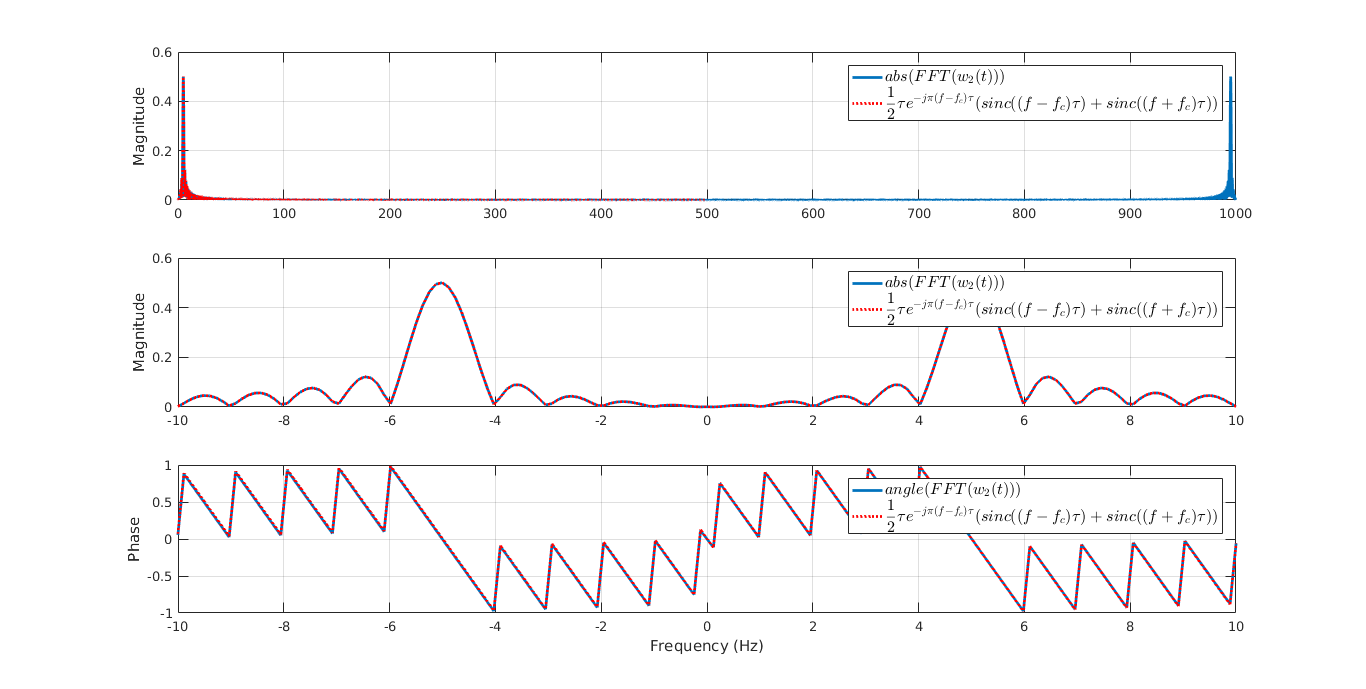
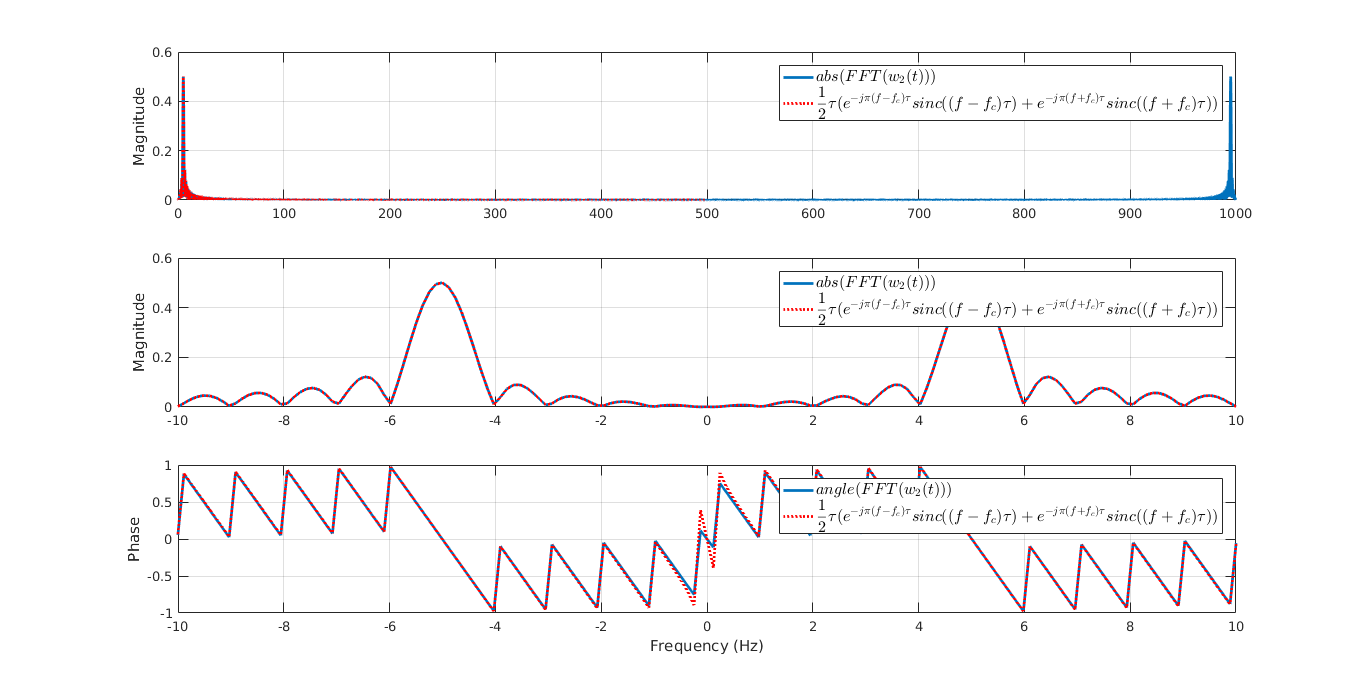
update plots AGAIN because I can't math

diff --git a/labs/lab08/scripts/settings.m b/labs/lab08/scripts/settings.m
@@ -30,5 +30,6 @@ theory_x2 = @(f) (exp(-1j*pi*tau*(f-f_c))*tau.*sinc((f-f_c)*tau));
 theory_x3 = @(f) (exp(1j*pi*tau*(f-f_c))*tau.*sinc((f-f_c)*tau));
 
 theory_w1 = @(f) (1/2*tau.*(sinc((f-f_c)*tau)+sinc((f+f_c)*tau)));
-theory_w2 = @(f) (1/2*tau*exp(-1j*pi*tau*(f-f_c)).*(sinc((f-f_c)*tau)+sinc((f+f_c)*tau)));
-theory_w3 = @(f) (1/2*tau*exp(1j*pi*tau*(f-f_c)).*(sinc((f-f_c)*tau)+sinc((f+f_c)*tau)));
+theory_w2 = @(f) (1/2*(exp(-1j*pi*tau*(f-f_c))*tau.*sinc((f-f_c)*tau)+exp(-1j*pi*tau*(f+f_c))*tau.*sinc((f+f_c)*tau)));
+theory_w3 = @(f) (1/2*(exp(1j*pi*tau*(f-f_c))*tau.*sinc((f-f_c)*tau)+exp(1j*pi*tau*(f+f_c))*tau.*sinc((f+f_c)*tau)));
+% theory_w3 = @(f) (1/2*tau*exp(1j*pi*tau*(f-f_c)).*(sinc((f-f_c)*tau)+sinc((f+f_c)*tau)));

diff --git a/labs/lab08/scripts/part01.m b/labs/lab08/scripts/part01.m
@@ -15,7 +15,7 @@ plot_fft(m(t).*p1(t), theory_w1(f), 'w_{1}',...
     '$$\frac{1}{2}\tau (sinc((f-f_{c})\tau) + sinc((f+f_{c})\tau))$$');
 
 plot_fft(m(t).*p2(t), theory_w2(f), 'w_{2}',...
-    '$$\frac{1}{2}\tau e^{-j\pi (f-f_c)\tau} (sinc((f-f_{c})\tau) + sinc((f+f_{c})\tau))$$');
+    '$$\frac{1}{2}\tau (e^{-j\pi (f-f_c)\tau}sinc((f-f_{c})\tau) + e^{-j\pi (f+f_c)\tau}sinc((f+f_{c})\tau))$$');
 
 plot_fft(m(t).*p3(t), theory_w3(f), 'w_{3}',...
-    '$$\frac{1}{2}\tau e^{j\pi (f-f_c)\tau} (sinc((f-f_{c})\tau) + sinc((f+f_{c})\tau))$$');
+    '$$\frac{1}{2}\tau (e^{j\pi (f-f_c)\tau}sinc((f-f_{c})\tau) + e^{j\pi (f+f_c)\tau}sinc((f+f_{c})\tau))$$');
